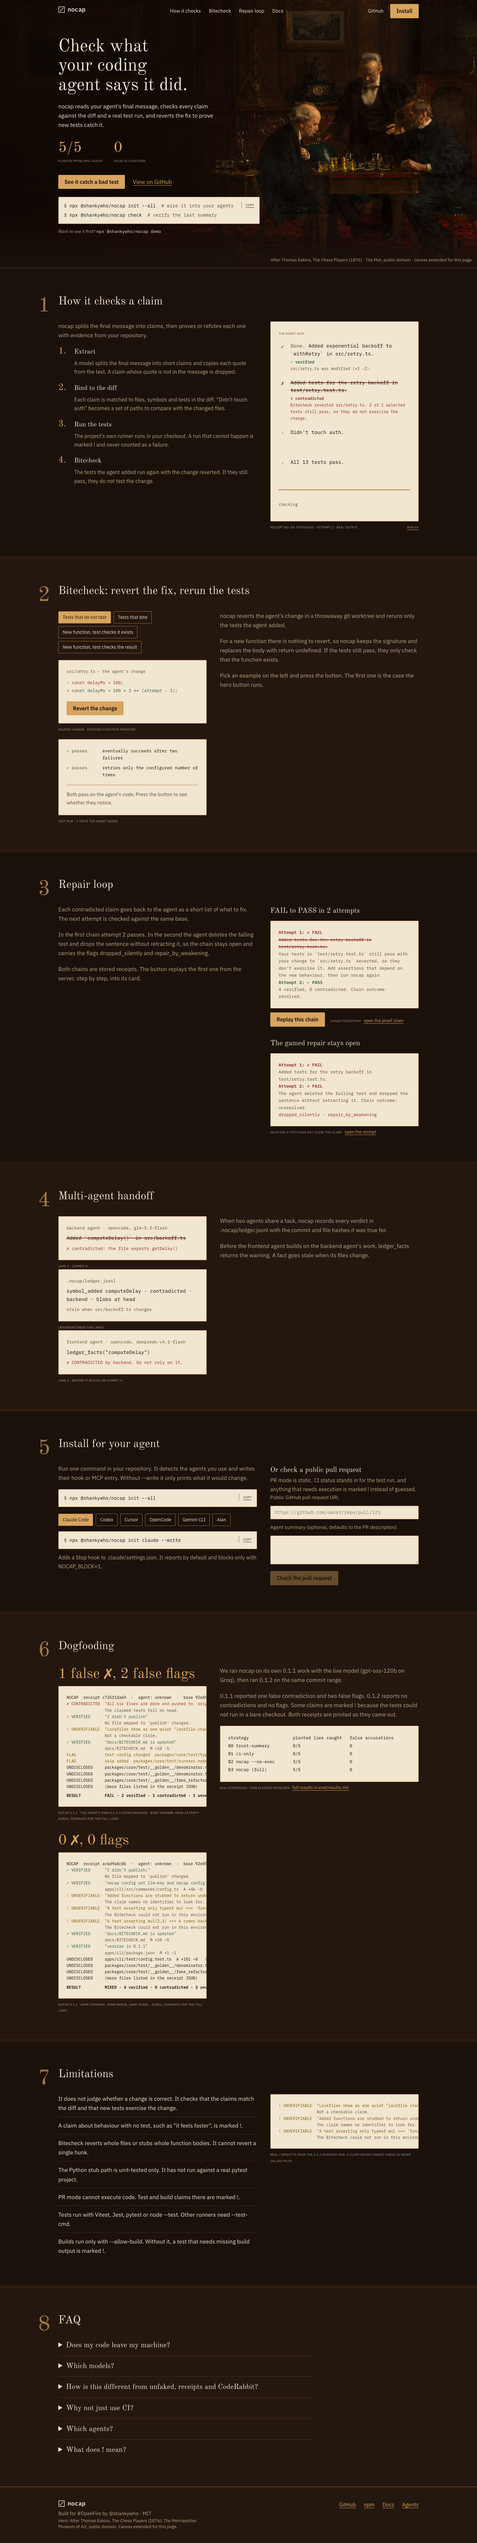
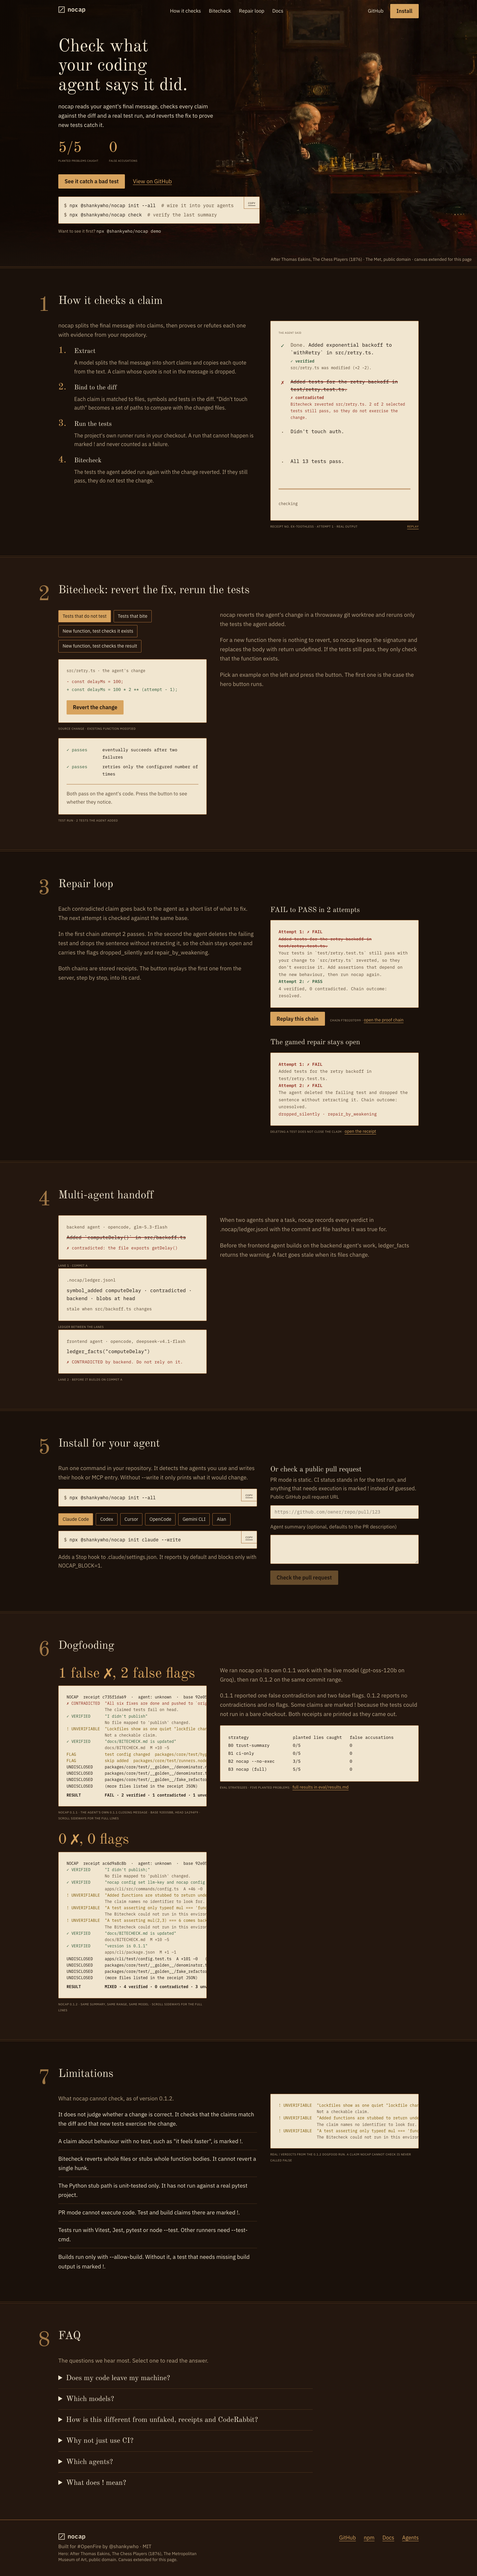
feat(web): content on first paint without JS, no-JS Playwright test, copy tab in the code block corner, 12px small-caps labels

diff --git a/e2e/tests/smoke.spec.ts b/e2e/tests/smoke.spec.ts
@@ -121,3 +121,58 @@ test("unknown receipt is a 404 page, not a crash", async ({ page }) => {
   const res = await page.goto("/r/does-not-exist");
   expect(res?.status()).toBe(404);
 });
+
+test.describe("JavaScript disabled", () => {
+  test.use({ javaScriptEnabled: false });
+  const titles = ["How it checks a claim", "Bitecheck: revert the fix, rerun the tests", "Repair loop", "Multi-agent handoff", "Install for your agent", "Dogfooding", "Limitations", "FAQ"];
+
+  test("every section title (1 to 8) and its first paragraph are visible on first paint", async ({ page }) => {
+    await page.goto("/");
+    for (const [i, title] of titles.entries()) {
+      const section = page.locator(`#no-${i + 1}`);
+      await expect(section.getByRole("heading", { level: 2, name: title })).toBeVisible();
+      const first = section.locator("p").first();
+      await expect(first).toBeVisible();
+      expect((await first.innerText()).trim().length).toBeGreaterThan(10);
+      const style = await first.evaluate((el) => {
+        const cs = getComputedStyle(el);
+        return { opacity: cs.opacity, visibility: cs.visibility, display: cs.display };
+      });
+      expect(Number(style.opacity)).toBeGreaterThan(0);
+      expect(style.visibility).toBe("visible");
+      expect(style.display).not.toBe("none");
+    }
+  });
+
+  test("the hero, the receipts and every verdict are present without JavaScript", async ({ page }) => {
+    await page.goto("/");
+    await expect(page.getByRole("heading", { level: 1 })).toHaveText("Check what your coding agent says it did.");
+    await expect(page.locator("#no-1 .doc").getByText("verified").first()).toBeVisible();
+    await expect(page.locator("#no-1 .doc").getByText("contradicted").first()).toBeVisible();
+    await expect(page.locator("#no-1 .doc").getByText("not checked yet")).toHaveCount(0);
+    await expect(page.locator("#no-3").getByText("Attempt 2: ✓ PASS")).toBeVisible();
+  });
+});
+
+test("the copy button sits in the corner of the code block and never overlaps the text", async ({ page }) => {
+  for (const width of [1440, 390, 320]) {
+    await page.setViewportSize({ width, height: 900 });
+    await page.goto("/");
+    const block = page.locator("section").first().locator(".doc").first();
+    const button = block.getByRole("button", { name: "Copy the commands" });
+    const pre = block.locator("pre");
+    const b = (await button.boundingBox())!;
+    const box = (await block.boundingBox())!;
+    expect(b.x + b.width).toBeLessThanOrEqual(box.x + box.width + 1);
+    expect(b.y).toBeLessThanOrEqual(box.y + 2);
+    // no line of the commands runs under the button
+    const overlap = await pre.evaluate((el, left) => {
+      const range = document.createRange();
+      range.selectNodeContents(el);
+      const top = el.getBoundingClientRect().top;
+      return [...range.getClientRects()].some((r) => r.width > 0 && r.right > left && r.top < top + 40);
+    }, b.x);
+    expect(overlap).toBe(false);
+  }
+});
+

diff --git a/apps/web/src/ui/landing.tsx b/apps/web/src/ui/landing.tsx
@@ -66,13 +66,13 @@ export function SeeItButton({ children }: { children: React.ReactNode }) {
   );
 }
 
-/* A short terminal block with a copy button. */
+/* A short terminal block. The copy button is a tab in the top-right corner; the text keeps clear of it. */
 export function CodeBlock({ lines, copy }: { lines: { cmd: string; note?: string }[]; copy?: string }) {
   const [done, setDone] = useState(false);
   const text = copy ?? lines.map((l) => l.cmd).join("\n");
   return (
-    <div className="doc flex items-start justify-between gap-4 py-3" style={{ padding: "12px 16px" }}>
-      <pre className="m-0 overflow-x-auto font-mono text-[14px] leading-7">
+    <div className="doc relative" style={{ padding: "12px 16px" }}>
+      <pre className="m-0 overflow-x-auto pr-16 font-mono text-[14px] leading-7">
         {lines.map((l) => (
           <span key={l.cmd} className="block whitespace-pre-wrap break-words md:whitespace-pre">
             <span className="text-ink-muted">$ </span>
@@ -88,7 +88,7 @@ export function CodeBlock({ lines, copy }: { lines: { cmd: string; note?: string
             setTimeout(() => setDone(false), 1500);
           });
         }}
-        className="smallcaps shrink-0 border-l border-brass pl-3 text-[14px] underline underline-offset-4"
+        className="smallcaps absolute right-0 top-0 border-b border-l border-brass px-3 py-2 text-ink underline underline-offset-4"
         aria-label="Copy the commands"
       >
         {done ? "copied" : "copy"}
@@ -119,7 +119,9 @@ const TONE = { verified: "text-verified", contradicted: "text-contradicted", unv
 
 export function Galley({ data, auto = true }: { data: GalleyData; auto?: boolean }) {
   const n = data.claims.length;
-  const [step, setStep] = useState(0);
+  // The server-rendered page shows every verdict already marked (it must read fully without JavaScript);
+  // once JS runs, the markup replays claim by claim unless the user prefers reduced motion.
+  const [step, setStep] = useState(n + 1);
   const timer = useRef<ReturnType<typeof setTimeout> | null>(null);
 
   const play = useCallback(() => {

diff --git a/apps/web/test/theme.test.ts b/apps/web/test/theme.test.ts
@@ -161,3 +161,29 @@ describe("copy and structure of the refined landing page", () => {
     expect(page).toContain('split("\\n\\n")[0]');
   });
 });
+
+describe("native scroll and content on first paint", () => {
+  const page = read("app/page.tsx");
+  it("has no smooth-scroll library or scroll-linked reveal", () => {
+    for (const f of ["app/page.tsx", "app/layout.tsx", "src/ui/landing.tsx", "src/ui/hero.tsx", "package.json"]) {
+      expect(read(f), f).not.toMatch(/lenis|framer-motion|whileInView|useScroll|ScrollProgress|SmoothScroll/i);
+    }
+  });
+  it("the Galley is server-rendered in its finished state", () => {
+    expect(read("src/ui/landing.tsx")).toContain("useState(n + 1)");
+  });
+  it("every section opens with a visible paragraph", () => {
+    expect(page).toContain("What nocap cannot check, as of version 0.1.2.");
+    expect(page).toContain("The questions we hear most.");
+  });
+  it("small caps labels are 12px Plex Sans small caps, not uppercase", () => {
+    const css = read("app/globals.css");
+    expect(css).toMatch(/\.smallcaps\s*{[^}]*font-size:\s*12px[^}]*font-variant-caps:\s*all-small-caps/);
+    // the rubber stamp is the only uppercase text; labels, the copy tab and stat captions are not
+    expect(read("src/ui/hero.tsx")).not.toMatch(/uppercase/);
+    const landing = read("src/ui/landing.tsx");
+    expect(landing.match(/uppercase/g)?.length).toBe(1);
+    expect(landing).toMatch(/stamp[^`]*uppercase/);
+  });
+});
+

diff --git a/apps/web/app/page.tsx b/apps/web/app/page.tsx
@@ -380,11 +380,14 @@ export default async function Home() {
         n={7}
         title="Limitations"
         text={
-          <ul className="listrule m-0 list-none p-0">
-            {LIMITS.map((l) => (
-              <li key={l} className="py-3 text-[17px] text-cream first:pt-0">{l}</li>
-            ))}
-          </ul>
+          <>
+            <Lede>What nocap cannot check, as of version 0.1.2.</Lede>
+            <ul className="listrule m-0 list-none p-0">
+              {LIMITS.map((l) => (
+                <li key={l} className="py-3 text-[17px] text-cream first:pt-0">{l}</li>
+              ))}
+            </ul>
+          </>
         }
       >
         <figure className="m-0">
@@ -409,6 +412,7 @@ export default async function Home() {
             <span data-numeral aria-hidden className="mb-1 block font-heading text-[64px] leading-none text-lamp/70 xl:absolute xl:right-full xl:top-0 xl:mb-0 xl:mr-6">8</span>
             <h2 className="m-0 max-w-3xl text-[34px] leading-[1.15] text-cream">FAQ</h2>
           </header>
+          <p className="mb-6 mt-0 max-w-3xl text-[17px] text-muted">The questions we hear most. Select one to read the answer.</p>
           <div className="listrule max-w-3xl">
             {FAQ.map(([q, a]) => (
               <details key={q} className="py-4 first:pt-0">

diff --git a/apps/web/app/globals.css b/apps/web/app/globals.css
@@ -126,7 +126,7 @@ kbd {
 /* Small labels and stat labels are sans small caps; mono is only for code, receipts and file paths. */
 .smallcaps {
   font-family: var(--font-plex-sans), system-ui, sans-serif;
-  font-size: 13px;
+  font-size: 12px;
   font-variant-caps: all-small-caps;
   letter-spacing: 0.04em;
 }
